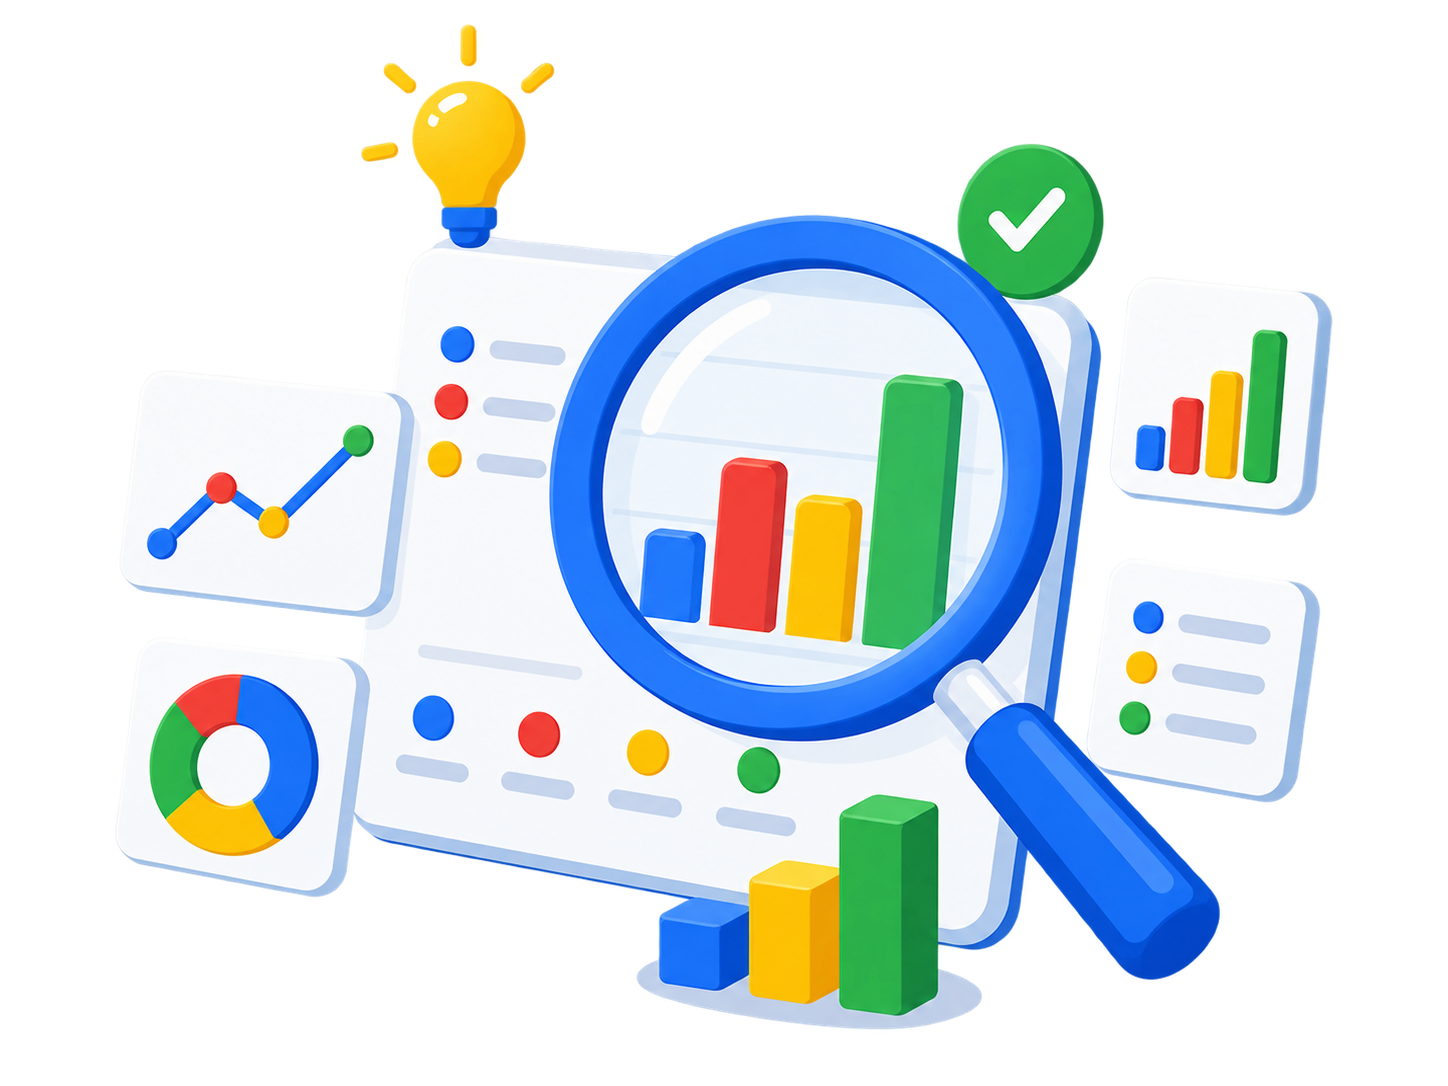
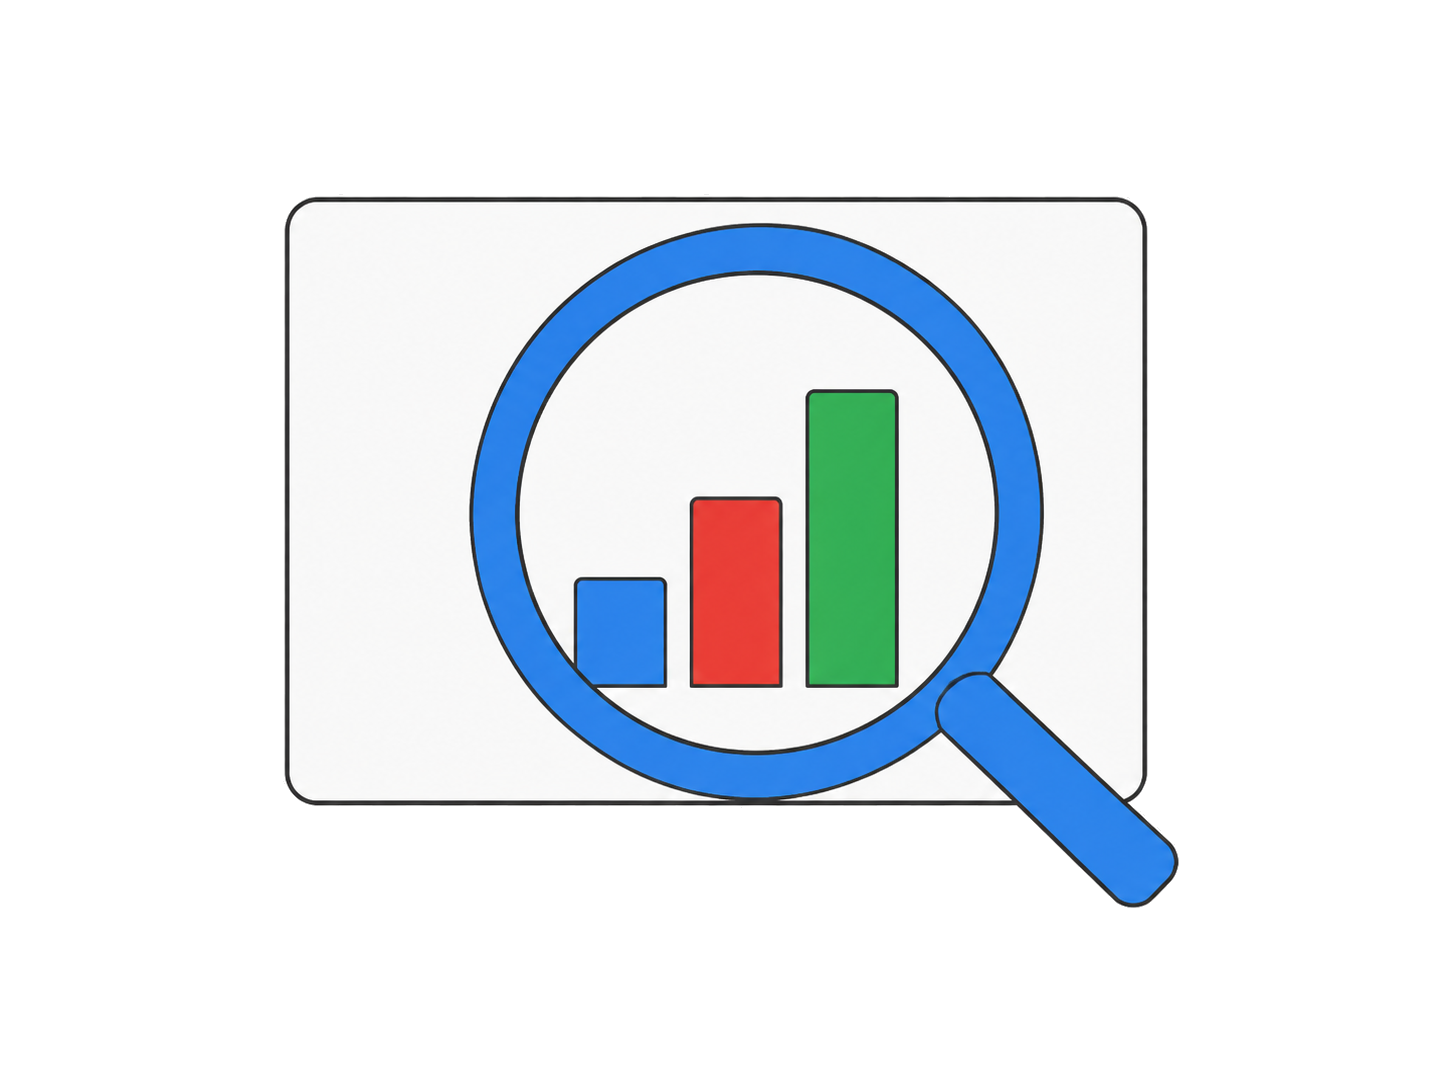
Replace illustrations with minimal flat artwork

Changed region(s): [[0.0932, 0.0304, 0.9323, 0.9724], [0.0932, 0.4862, 0.1243, 0.547], [0.4972, 0.3039, 0.5283, 0.3343]]

diff --git a/app/globals.css b/app/globals.css
@@ -462,58 +462,25 @@ a {
   overflow: hidden;
 }
 
-.step-art::before,
-.step-art::after {
-  content: "";
-  position: absolute;
-  border-radius: 50%;
-  animation: orbit-dot 5s ease-in-out infinite;
-}
-
-.step-art::before {
-  top: 18%;
-  left: 12%;
-  width: 10px;
-  height: 10px;
-  background: var(--red);
-}
-
-.step-art::after {
-  right: 13%;
-  bottom: 17%;
-  width: 14px;
-  height: 14px;
-  background: var(--yellow);
-  animation-delay: -2.2s;
-}
-
 .art-blue {
-  background: #eef4ff;
+  background: #f6f8fc;
 }
 
 .art-yellow {
-  background: #fff8e1;
+  background: #fbfaf6;
 }
 
 .art-green {
-  background: #edf7ef;
+  background: #f5f8f5;
 }
 
 .step-art img {
   position: relative;
   z-index: 1;
-  width: 88%;
+  width: 76%;
   height: auto;
   object-fit: contain;
-  animation: illustration-float 5.5s ease-in-out infinite;
-}
-
-.illustrated-step:nth-child(2) .step-art img {
-  animation-delay: -1.8s;
-}
-
-.illustrated-step:nth-child(3) .step-art img {
-  animation-delay: -3.1s;
+  animation: illustration-settle 0.7s ease both;
 }
 
 .step-copy {
@@ -835,14 +802,16 @@ a {
   to { opacity: 1; transform: translateY(0); }
 }
 
-@keyframes illustration-float {
-  0%, 100% { transform: translateY(0) rotate(0.001deg); }
-  50% { transform: translateY(-9px) rotate(0.7deg); }
+@keyframes illustration-settle {
+  from { opacity: 0; transform: translateY(10px); }
+  to { opacity: 1; transform: translateY(0); }
 }
 
-@keyframes orbit-dot {
-  0%, 100% { transform: translate(0, 0) scale(1); }
-  50% { transform: translate(8px, -7px) scale(1.15); }
+@supports (animation-timeline: view()) {
+  .step-art img {
+    animation-timeline: view();
+    animation-range: entry 8% cover 24%;
+  }
 }
 
 @media (max-width: 960px) {
